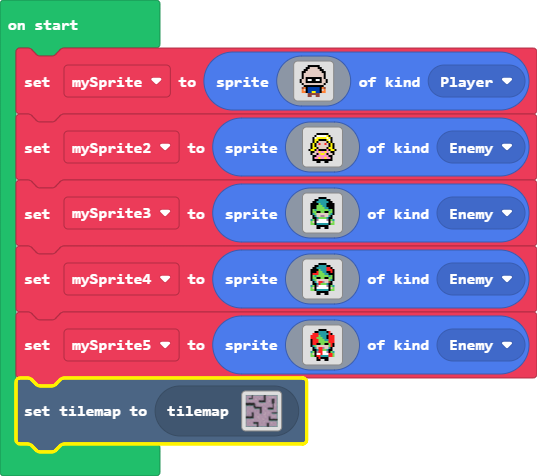
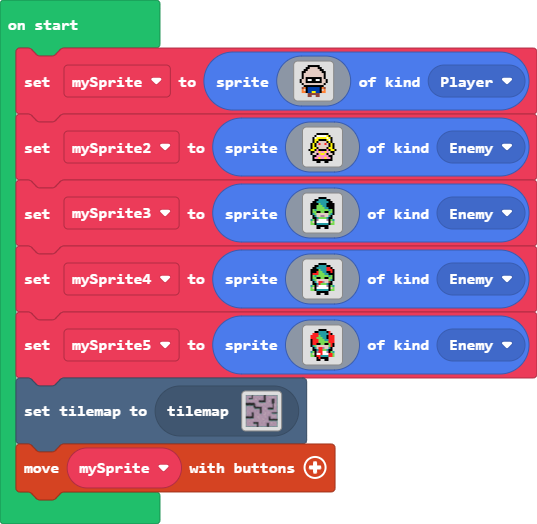
Update main.blocks, main.ts

diff --git a/main.ts b/main.ts
@@ -4,3 +4,4 @@ let mySprite3 = sprites.create(assets.image`Zombie 2`, SpriteKind.Enemy)
 let mySprite4 = sprites.create(assets.image`Zombie2`, SpriteKind.Enemy)
 let mySprite5 = sprites.create(assets.image`Zombie3`, SpriteKind.Enemy)
 tiles.setCurrentTilemap(tilemap`Bosslevel`)
+controller.moveSprite(mySprite)
